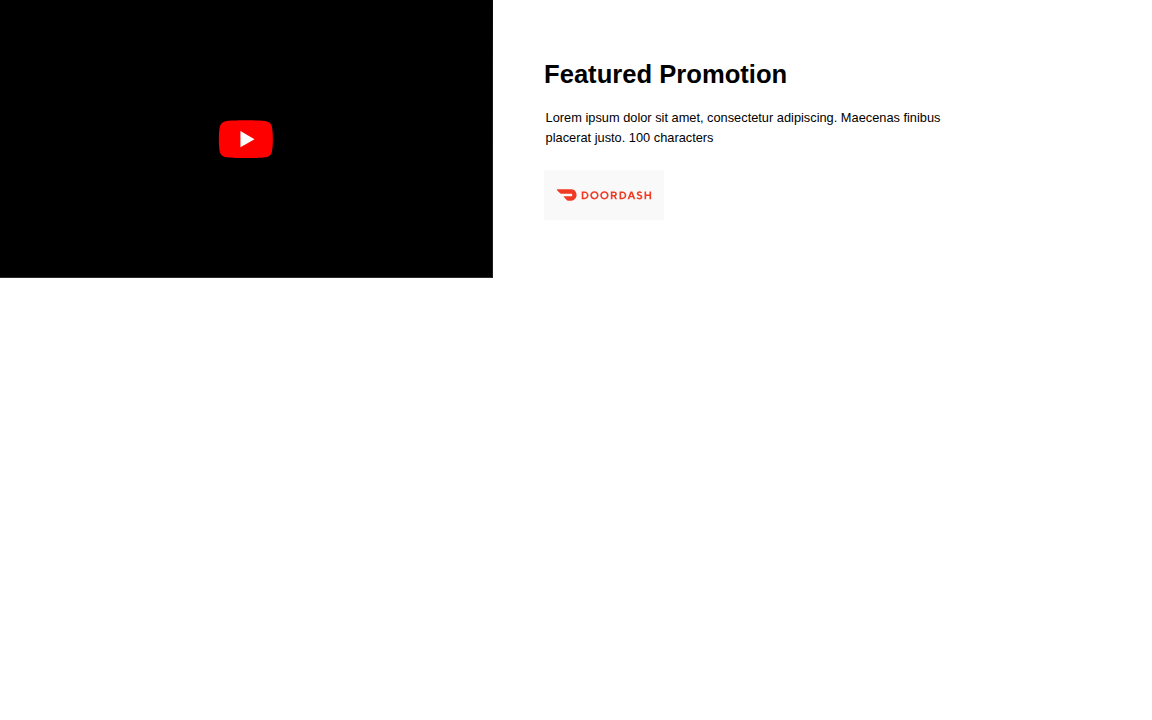
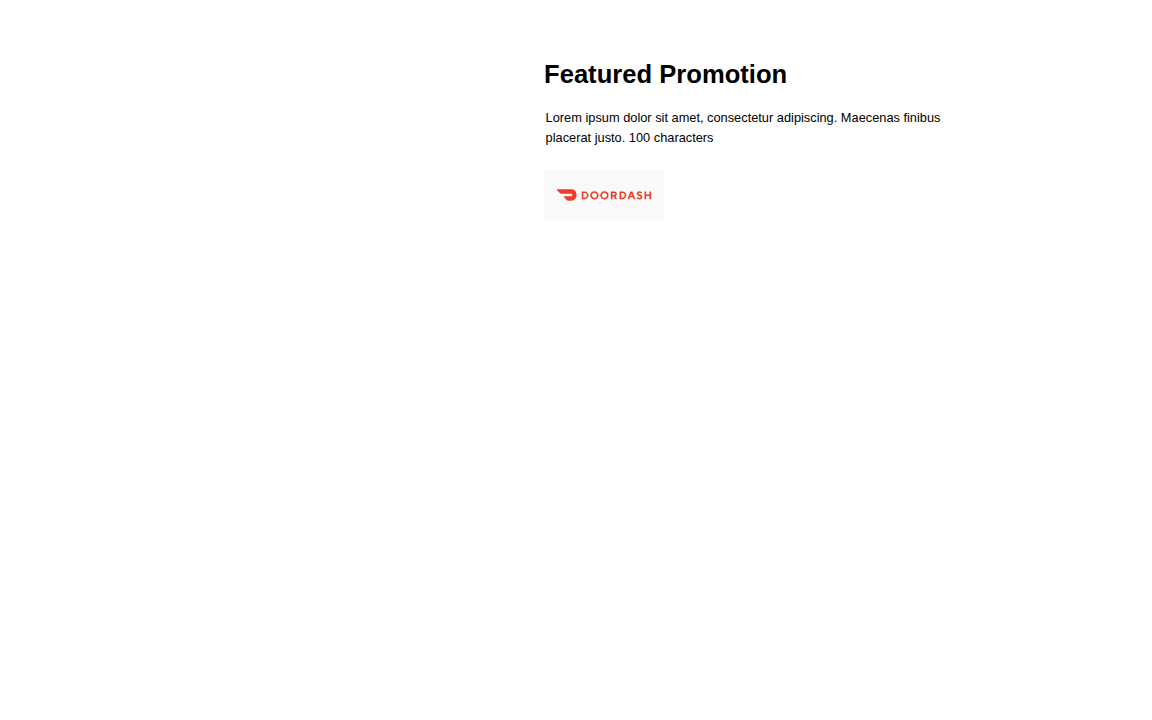
feat: pass tracking query params to CTA links (#1400)
Query parameters on the page's URL with the `utm_` prefix or that fall
into the following list are added to the URLs assigned to CTAs on the
page. Email and phone links are excluded.

```
"gclid",
"gclsrc",
"gbraid",
"wbraid",
"dclid",
"fbclid",
"msclkid",
"ttclid",
"twclid",
"li_fat_id",
"ScCid",
"epik",
"rdt_cid",
"srsltid",
```

Feel free to test it here:

https://dev.yext.com/s/1000167375/yextsites/67829/branches/7728/editor#pageSetIdentifier=01a21016-6256-7acf-a6bf-f0fd706d39dc&locale=en&themeId=test-tracking-param-passthrough-2&entityId=9082022

https://capably-working-bluebird.dev.pgsdemo.com/ma/east-falmouth/137-teaticket-hwy?utm_source=test1&hello=hi&li_fat_id=123

---------

Changed region(s): [[0.0, 0.0, 0.4375, 0.3972]]

diff --git a/packages/visual-editor/src/components/atoms/cta.test.ts b/packages/visual-editor/src/components/atoms/cta.test.ts
@@ -1,6 +1,7 @@
 import React from "react";
 import { render, screen } from "@testing-library/react";
-import { describe, expect, it, vi } from "vitest";
+import { renderToString } from "react-dom/server";
+import { afterEach, describe, expect, it, vi } from "vitest";
 import { CTA, CTAProps } from "./cta.tsx";
 
 vi.mock("../../hooks/useDocument.tsx", () => ({
@@ -19,15 +20,15 @@ vi.mock("@yext/pages-components", () => ({
   getDirections: () => "#",
   Link: ({
     children,
-    cta: _cta,
+    cta,
     eventName: _eventName,
     ...props
   }: {
     children: React.ReactNode;
-    cta: unknown;
+    cta: { link: string };
     eventName?: string;
-  } & React.AnchorHTMLAttributes<HTMLAnchorElement>) =>
-    React.createElement("a", { href: "#", ...props }, children),
+  } & React.AnchorHTMLAttributes<HTMLAnchorElement>): React.ReactElement =>
+    React.createElement("a", { ...props, href: cta.link }, children),
 }));
 
 const renderCta = (props: Partial<CTAProps> = {}): void => {
@@ -119,5 +120,164 @@ describe("CTA text color", () => {
         (icon) => icon.style.color === ""
       )
     ).toBe(true);
+  });
+});
+
+describe("CTA links with page tracking parameters", (): void => {
+  const originalUrl = window.location.href;
+
+  afterEach((): void => {
+    window.history.replaceState(window.history.state, "", originalUrl);
+  });
+
+  it.each<{
+    name: string;
+    pageQuery: string;
+    props: Partial<CTAProps>;
+    expectedHref: string;
+  }>([
+    {
+      name: "when the page has no supported parameters then the destination is unchanged",
+      pageQuery:
+        "?utm=page&UTM_source=page&utmsource=page&scCid=page&GCLID=page&gclid_extra=page",
+      props: { link: "/book?utm=destination&ref=a%20b#details" },
+      expectedHref: "/book?utm=destination&ref=a%20b#details",
+    },
+    {
+      name: "when the page has an empty utm_source then it replaces the destination value",
+      pageQuery: "?utm_source=",
+      props: { link: "/book?utm_source=destination" },
+      expectedHref: "/book?utm_source=",
+    },
+    {
+      name: "when utm_source repeats then the first page value replaces all destination entries",
+      pageQuery: "?utm_source=Spring%2BSale%26More&utm_source=second&ref=page",
+      props: {
+        link: "https://example.com/book?ref=a%20b&UTM_source=other&utm_source=old&%75tm_source=older#details",
+      },
+      expectedHref:
+        "https://example.com/book?ref=a%20b&UTM_source=other&utm_source=Spring%2BSale%26More#details",
+    },
+    {
+      name: "when the page has several tracking keys then only those keys replace destination values",
+      pageQuery:
+        "?utm_campaign=Spring%2BSale&gclid=&utm_custom=page&ScCid=Exact&gclid=second&utm=page",
+      props: {
+        link: "https://example.com/book?ref=a%20b&%75tm_campaign=first&utm_campaign=second&gclid=old&utm_source=saved&fbclid=old&utm=destination#details",
+      },
+      expectedHref:
+        "https://example.com/book?ref=a%20b&utm_source=saved&fbclid=old&utm=destination&utm_campaign=Spring%2BSale&gclid=&utm_custom=page&ScCid=Exact#details",
+    },
+    {
+      name: "when a relative link uses normalization then the page value keeps its case",
+      pageQuery: "?utm_source=SpringSale",
+      props: { link: "../Book Offer", normalizeLink: true },
+      expectedHref: "../book-offer?utm_source=SpringSale",
+    },
+    {
+      name: "when the destination has only a query then utm_source uses the same query",
+      pageQuery: "?utm_source=page",
+      props: { link: "?service=onsite" },
+      expectedHref: "?service=onsite&utm_source=page",
+    },
+    {
+      name: "when the destination has only a fragment then the fragment is unchanged",
+      pageQuery: "?utm_source=page&ref=page",
+      props: { link: "#details" },
+      expectedHref: "#details",
+    },
+    {
+      name: "when the link type is email then the destination is unchanged",
+      pageQuery: "?utm_source=page&gclid=page",
+      props: { link: "team@example.com", linkType: "Email" },
+      expectedHref: "team@example.com",
+    },
+    {
+      name: "when the link type is phone then the destination is unchanged",
+      pageQuery: "?utm_source=page",
+      props: { link: "+15551234567", linkType: "PHONE" },
+      expectedHref: "+15551234567",
+    },
+    {
+      name: "when a URL uses mailto then the destination is unchanged",
+      pageQuery: "?utm_source=page",
+      props: {
+        link: " \tMAILTO:team@example.com?subject=Book \n",
+        linkType: "URL",
+      },
+      expectedHref: " \tMAILTO:team@example.com?subject=Book \n",
+    },
+    {
+      name: "when a URL uses tel then the destination is unchanged",
+      pageQuery: "?utm_source=page&fbclid=page",
+      props: { link: "TeL:+15551234567", linkType: "URL" },
+      expectedHref: "TeL:+15551234567",
+    },
+    {
+      name: "when a path has surrounding ASCII spaces then they stay out of the destination",
+      pageQuery: "?utm_source=page",
+      props: { link: " \t/book%20\u00a0 \n" },
+      expectedHref: "/book%20\u00a0?utm_source=page",
+    },
+    {
+      name: "when a query has trailing ASCII spaces then its encoded space is preserved",
+      pageQuery: "?utm_source=page",
+      props: { link: "/book?ref=a%20 \r\n" },
+      expectedHref: "/book?ref=a%20&utm_source=page",
+    },
+  ])("$name", ({ pageQuery, props, expectedHref }): void => {
+    window.history.replaceState(window.history.state, "", `/page${pageQuery}`);
+
+    renderCta(props);
+
+    expect(screen.getByRole("link").getAttribute("href")).toBe(expectedHref);
+  });
+
+  it.each([
+    "gclid",
+    "gclsrc",
+    "gbraid",
+    "wbraid",
+    "dclid",
+    "fbclid",
+    "msclkid",
+    "ttclid",
+    "twclid",
+    "li_fat_id",
+    "ScCid",
+    "epik",
+    "rdt_cid",
+    "srsltid",
+  ])("when the page has %s then the link gets that parameter", (key): void => {
+    window.history.replaceState(window.history.state, "", `/page?${key}=page`);
+
+    renderCta({ link: "/book" });
+
+    expect(screen.getByRole("link").getAttribute("href")).toBe(
+      `/book?${key}=page`
+    );
+  });
+
+  it("when React hydrates then the link gets the page tracking parameters", (): void => {
+    window.history.replaceState(
+      window.history.state,
+      "",
+      "/page?utm=page&utm_source=campaign&msclkid=click"
+    );
+    const cta = React.createElement(CTA, {
+      label: "Book",
+      link: "/book",
+      normalizeLink: false,
+      variant: "primary",
+    });
+    const container = document.createElement("div");
+    container.innerHTML = renderToString(cta);
+    expect(container.querySelector("a")?.getAttribute("href")).toBe("/book");
+
+    render(cta, { container, hydrate: true });
+
+    expect(container.querySelector("a")?.getAttribute("href")).toBe(
+      "/book?utm_source=campaign&msclkid=click"
+    );
   });
 });

diff --git a/packages/visual-editor/src/components/locator/Locator.test.tsx b/packages/visual-editor/src/components/locator/Locator.test.tsx
@@ -23,8 +23,10 @@ import {
 } from "./LocatorResultCard.tsx";
 import { Render, Config, resolveAllData } from "@puckeditor/core";
 import { page } from "@vitest/browser/context";
+import { Source } from "@yext/search-headless-react";
 import { getUserLocation } from "@yext/search-ui-react";
 import { backgroundColors } from "../../utils/themeConfigOptions.ts";
+import type { StreamDocument } from "../../utils/types/StreamDocument.ts";
 import { MainContent } from "../structure/MainContent.tsx";
 
 vi.mock("@yext/search-ui-react", async () => {
@@ -1621,6 +1623,44 @@ describe("Locator", async () => {
       vi.mocked(getUserLocation).mockRejectedValue(
         new Error("Locator screenshot tests use fixture search data.")
       );
+      window.history.replaceState(window.history.state, "", originalUrl);
+    }
+  });
+
+  it("when the page has campaign parameters then the locator directions link includes them", async () => {
+    const streamDocument: StreamDocument = { locale: "en" };
+    const translations = await injectTranslations(streamDocument);
+    const originalUrl = window.location.href;
+    const startingUrl = new URL(originalUrl);
+    startingUrl.searchParams.set("utm_campaign", "local-search");
+    startingUrl.searchParams.set("gclid", "locator-click");
+    window.history.replaceState(window.history.state, "", startingUrl);
+
+    try {
+      reactRender(
+        <VisualEditorProvider
+          templateProps={{ document: streamDocument, translations }}
+        >
+          <LocatorResultCard
+            result={{
+              index: 1,
+              source: Source.KnowledgeManager,
+              rawData: DEFAULT_LOCATOR_RESULTS[0].data,
+            }}
+            resultCardProps={DEFAULT_LOCATOR_RESULT_CARD_PROPS}
+          />
+        </VisualEditorProvider>
+      );
+
+      const directionsLink = screen.getByRole<HTMLAnchorElement>("link", {
+        name: "Get Directions for 1101 Wilson Blvd",
+      });
+      const params = new URL(directionsLink.href).searchParams;
+      expect(params.get("utm_campaign")).toBe("local-search");
+      expect(params.get("gclid")).toBe("locator-click");
+      expect(params.get("api")).toBe("1");
+      expect(params.get("query")).toBe("38.895546,-77.069915");
+    } finally {
       window.history.replaceState(window.history.state, "", originalUrl);
     }
   });

diff --git a/packages/visual-editor/src/internal/hooks/useCtaTrackingLink.ts b/packages/visual-editor/src/internal/hooks/useCtaTrackingLink.ts
@@ -1,0 +1,72 @@
+import type { LinkType } from "@yext/pages-components";
+import { useEffect, useState } from "react";
+import { isNonNormalizableLinkType } from "../../utils/normalizeLink.ts";
+
+const NON_UTM_TRACKING_PARAMS = [
+  "gclid",
+  "gclsrc",
+  "gbraid",
+  "wbraid",
+  "dclid",
+  "fbclid",
+  "msclkid",
+  "ttclid",
+  "twclid",
+  "li_fat_id",
+  "ScCid",
+  "epik",
+  "rdt_cid",
+  "srsltid",
+];
+
+/** Adds tracking parameters from the page URL after the component mounts. */
+export const useCtaTrackingLink = (
+  href: string | undefined,
+  linkType?: LinkType
+): string | undefined => {
+  const [pageParams, setPageParams] = useState<Map<string, string> | null>(
+    null
+  );
+
+  useEffect((): void => {
+    const params = new Map<string, string>();
+    for (const [key, value] of new URLSearchParams(window.location.search)) {
+      if (
+        !params.has(key) &&
+        (key.startsWith("utm_") || NON_UTM_TRACKING_PARAMS.includes(key))
+      ) {
+        params.set(key, value);
+      }
+    }
+    if (params.size > 0) {
+      setPageParams(params);
+    }
+  }, []);
+
+  if (
+    pageParams === null ||
+    !href?.trim() ||
+    /^\s*(?:#|mailto:|tel:)/i.test(href) ||
+    isNonNormalizableLinkType(linkType)
+  ) {
+    return href;
+  }
+
+  // Trim ASCII whitespace that the browser ignores around the URL.
+  const trimmedHref = href.replace(/^[ \t\r\n\f\v]+|[ \t\r\n\f\v]+$/g, "");
+  const [destination] = trimmedHref.split("#", 1);
+  const fragment = trimmedHref.slice(destination.length);
+  const [path] = destination.split("?", 1);
+  const query = destination.slice(path.length + 1);
+
+  // Keep the original encoding of the other query parameters.
+  const params = query
+    ? query.split("&").filter((param): boolean => {
+        const key = new URLSearchParams(`?${param}`).keys().next().value;
+        return key === undefined || !pageParams.has(key);
+      })
+    : [];
+  params.push(new URLSearchParams([...pageParams]).toString());
+
+  return `${path}?${params.join("&")}${fragment}`;
+};

diff --git a/packages/visual-editor/src/components/atoms/cta.tsx b/packages/visual-editor/src/components/atoms/cta.tsx
@@ -8,6 +8,7 @@ import { normalizeLink } from "../../utils/normalizeLink.ts";
 import { themeManagerCn } from "../../utils/cn.ts";
 import { useBackground } from "../../hooks/useBackground.tsx";
 import { useDocument } from "../../hooks/useDocument.tsx";
+import { useCtaTrackingLink } from "../../internal/hooks/useCtaTrackingLink.ts";
 import { FaAngleRight, FaExternalLinkAlt } from "react-icons/fa";
 import { getDirections } from "@yext/pages-components";
 import { PresetImageType, FOOD_DELIVERY_SERVICES } from "../../types/types.ts";
@@ -256,13 +257,16 @@ export const CTA = (props: CTAProps) => {
   const streamDocument = useDocument();
   const resolvedProps = useResolvedCtaProps(props);
   const isButton = actionType === "button";
+  const linkWithTrackingParams = useCtaTrackingLink(
+    isButton || disabled ? undefined : resolvedProps?.link,
+    resolvedProps?.linkType
+  );
 
   if (!resolvedProps) {
     return null;
   }
 
   const {
-    link,
     linkType,
     label,
     ariaLabel,
@@ -436,7 +440,7 @@ export const CTA = (props: CTAProps) => {
       linkPadding={linkPadding}
     >
       <Link
-        cta={{ link: link || "#", linkType }}
+        cta={{ link: linkWithTrackingParams || "#", linkType }}
         eventName={eventName}
         target={openInNewTab ? "_blank" : target}
         aria-label={computedAriaLabel}

diff --git a/packages/visual-editor/src/components/locator/LocatorResultCard.tsx b/packages/visual-editor/src/components/locator/LocatorResultCard.tsx
@@ -54,6 +54,7 @@ import {
   FaRegEnvelope,
 } from "react-icons/fa";
 import { useTemplateMetadata } from "../../internal/hooks/useMessageReceivers.ts";
+import { useCtaTrackingLink } from "../../internal/hooks/useCtaTrackingLink.ts";
 import { FieldTypeData } from "../../internal/types/templateMetadata.ts";
 import {
   formatDistance,
@@ -972,6 +973,7 @@ export const LocatorResultCard = React.memo(
 
       return listingsLink || coordinateLink;
     })();
+    const directionsHref = useCtaTrackingLink(getDirectionsLink);
 
     return (
       <Background
@@ -1050,10 +1052,10 @@ export const LocatorResultCard = React.memo(
                             showCountry={props.address.showCountry}
                           />
                         </div>
-                        {getDirectionsLink &&
+                        {directionsHref &&
                           props.address.showGetDirectionsLink && (
                             <a
-                              href={getDirectionsLink}
+                              href={directionsHref}
                               onClick={handleGetDirectionsClick}
                               aria-label={t("getDirectionsForLocation", {
                                 address: location.address.line1,
